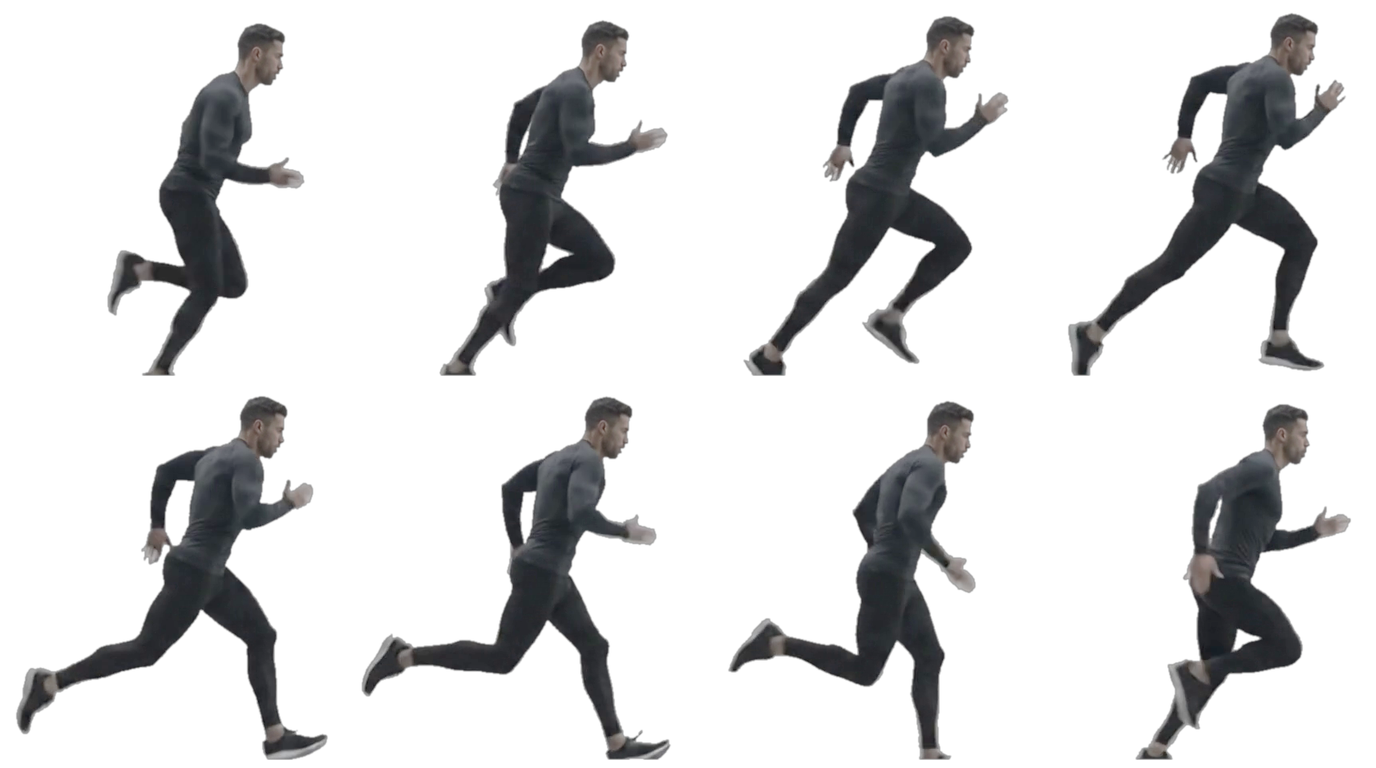
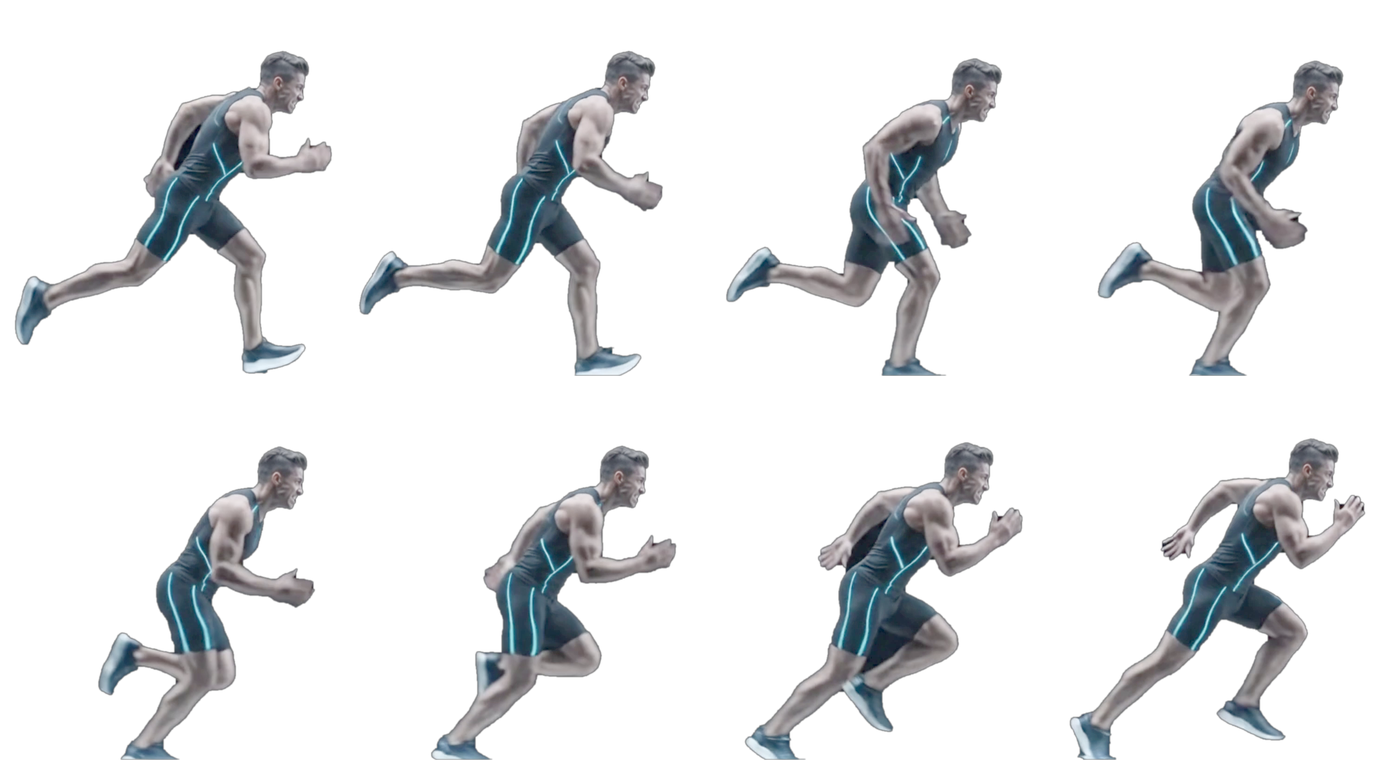
Add files via upload

diff --git a/index.html b/index.html
@@ -417,7 +417,7 @@ $('cgen').onclick=async()=>{
     const f=$('useref').checked?firstRaw(null):null;
     const ref=usePose?refFrom(await loadUrl(G+(rows===4?'_reference16_gray.png':'_reference_gray.png')),1280):(f?refFrom(f):null);
     const poseTxt=' The attached image is a POSE REFERENCE SHEET: '+n+' frames of one natural '+G+' cycle in a grid of 4 columns and '+rows+' rows. Draw your character in exactly these '+n+' poses, in the same order and the same grid layout, matching each frame\'s leg positions, arm swing, body lean and head height. Use the reference only for the poses. Do not copy its clothing, face, hair or colours; the character must look like the description above.';
-    const p=`Character sprite sheet for a 2D side-scrolling game. Character: ${$('cdesc').value.trim()}. Art style: ${c.style}. Show exactly ${n} frames of one smooth side-view ${G} cycle, arranged in a grid of ${cols} columns and ${rows} rows, evenly spaced with clear empty gaps between frames and nothing overlapping. It is the same character at the same size and proportions in every frame, facing right, full body visible, feet on a consistent ground line. Frames read left to right, then top to bottom, and the last frame must flow smoothly back into the first so the walk loops.${poses}${G==='run'?' It is a steady run: a slight forward lean of about 8 degrees, elbows bent at 90 degrees with the arms swinging opposite to the legs, and a brief moment where both feet leave the ground.':G==='sprint'?' It is a fast sprint: a forward lean of about 26 degrees, elbows bent at 90 degrees with the arms driving opposite to the legs, knees lifting high, and a brief moment where both feet leave the ground.':''} Keep the head at the same height and the body at the same size in every frame, and centre each frame in its own equal cell. ${BG} No text, no labels, no grid lines, no shadows.`+(usePose?poseTxt:(ref?' Use the attached reference image only as a guide for art style and colours.':''));
+    const p=`Character sprite sheet for a 2D side-scrolling game. Character: ${$('cdesc').value.trim()}. Art style: ${c.style}. Show exactly ${n} frames of one smooth side-view ${G} cycle, arranged in a grid of ${cols} columns and ${rows} rows, evenly spaced with clear empty gaps between frames and nothing overlapping. It is the same character at the same size and proportions in every frame, facing right, full body visible, feet on a consistent ground line. Frames read left to right, then top to bottom, and the last frame must flow smoothly back into the first so the walk loops.${poses}${G==='run'?' It is a steady run: a slight forward lean of about 8 degrees, elbows bent at 90 degrees with the arms swinging opposite to the legs, and a brief moment where both feet leave the ground.':G==='sprint'?' It is a fast sprint: a strong forward lean of about 35 degrees, elbows bent at 90 degrees with the arms driving opposite to the legs, high knees, and a moment where both feet leave the ground.':''} Keep the head at the same height and the body at the same size in every frame, and centre each frame in its own equal cell. ${BG} No text, no labels, no grid lines, no shadows.`+(usePose?poseTxt:(ref?' Use the attached reference image only as a guide for art style and colours.':''));
     const j=await api(p,ref,usePose?(rows===4?'1:1':'16:9'):$('caspect').value);
     S.ch.raw=await loadImg(j.image,j.mime);processChar();
   }catch(e){cst(e.message,1)}

diff --git a/sprint_guide.md b/sprint_guide.md
@@ -1,31 +1,25 @@
-# Natural sprint guide (measured from sprinting_video.mp4)
+# Natural sprint guide (measured from sprinting_man.mp4)
 
-Source: side view, running in place on a plain light background, fixed camera, 24 fps, figure about 449 px tall.
+Source: side view, running in place, 30 fps, figure about 690 px tall, forward lean.
 
 ## The cycle
-- One full cycle (two steps) = 8.4 frames = 0.35 s. That is 5.7 steps per second (about 344 per minute).
-  This is quicker than most real sprinters (about 270 to 300 per minute), so the clip is a very fast sprint.
-- The 8 frame loop uses seven consecutive frames from the cleanest stretch plus one frame from a later cycle at the same point in the stride. This evens out the step sizes: the largest step is 1.45 x the smallest, against 1.90 x when I used eight consecutive frames, and the step across the loop point is the same size as the others.
-- The clip is not equally clean everywhere: some stretches repeat almost exactly and others drift. I used the cleanest one.
-- 16 frames are not available. Frames taken from different cycles jumped about twice as much as they should, so a 16 frame set would jitter.
+- One full cycle (two steps) = 10.8 frames = 0.36 s. That is 5.6 steps per second.
+- The clip does not loop on a whole number of frames. The 11 frame set is slightly slow (3%). The 8 key frames are spaced evenly over one true cycle, so an 8 frame loop closes cleanly.
+- Frames 2 and 3 (and 7 and 8) of the cycle are near duplicates in the source clip, so it is not a perfectly smooth video.
 
 ## Numbers (as a share of body height, so they work for any character)
-- Forward lean of the torso: about 26 degrees.
-- Head bob: about 4% of body height.
-- Foot spread: 86% of body height at the widest, 11% at the narrowest.
-- Elbows bent about 90 degrees, arms driving opposite to the legs, knees lifting high, a brief moment where both feet are off the ground.
+- Forward lean of the torso: about 34 degrees (head ahead of the hips).
+- Head bob: about 3.6% of body height.
+- Foot spread: 91% of body height at the widest, 20% at the narrowest. Legs open much wider than in a walk.
+- Arms: elbows bent about 90 degrees, driving opposite to the legs.
+- Knees high, with a visible moment where both feet are off the ground.
 
 ## Playback speed
-- Frames per second for an N frame cycle = N / 0.35. For 8 frames about 23 fps.
+- Frames per second for an N frame cycle = N / 0.36. For 8 frames about 22 fps, for 11 frames about 30 fps.
 
-## Ground speed so the feet do not slide
-- Tracked from the shoe on the floor: about 2.3 x the character's height per second (30 consistent tracks, range about 2.0 to 2.5).
-  Example: a character 220 px tall on the stage suggests about 505 px/s for the layer it runs on. Tune by eye.
-
-## Known limits
-- Real running has two head bobs per cycle (one per step). In this clip the head goes up and down only once per cycle, so the two steps do not look identical. This comes from the source video and cannot be fixed from one clip.
-- At 8 frames per cycle the sprint is coarse. A clip at 60 fps or higher would give a smoother set.
-- Play the loop at about 23 fps. At 10 fps (the default in some tools) it looks like slow motion and the feet slide against a moving ground.
+## Ground speed (not measured)
+- The planted foot touches the ground for only a frame or two in this clip, so the real ground speed could not be measured.
+- Rule of thumb only: running covers about 2 to 5 x the character's height per second. Start near 3 and tune the ground layer speed until the feet stop sliding.
 
 ## Prompt text for any image generator
-Side view, facing right, one fast sprint cycle in 8 poses. Forward lean of about 26 degrees, elbows bent at 90 degrees with the arms driving opposite to the legs, knees lifting high, a brief moment where both feet leave the ground, legs opening wide. Same size in every frame, feet landing on one ground line.
+Side view, facing right, one fast run cycle in 8 poses. Strong forward lean of about 35 degrees, elbows bent at 90 degrees with the arms driving opposite to the legs, high knees, a flight phase where both feet leave the ground, legs opening wide. Same size in every frame, feet landing on one ground line.
